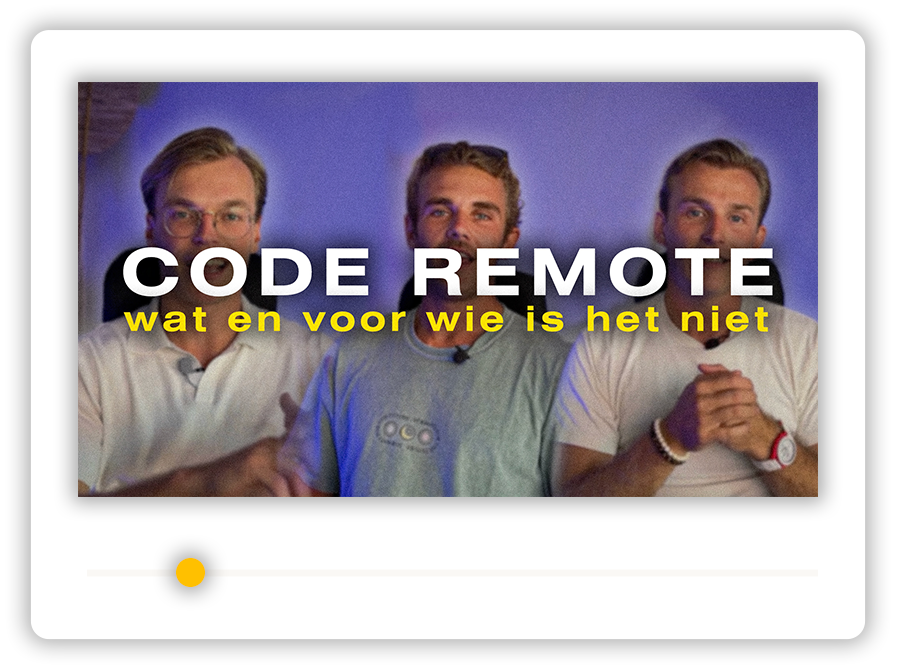
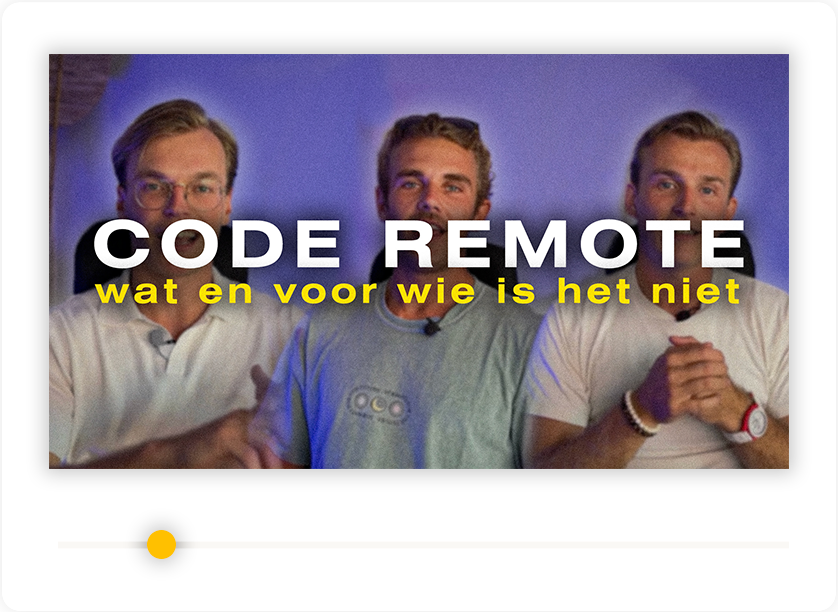
code-remote change

diff --git a/components/ThirdPage.vue b/components/ThirdPage.vue
@@ -108,7 +108,7 @@
             <img
               src="../assets/images/Screenshots for section 3/code-remote.png"
               alt="code-remote"
-              class="opacity-70 shadow-effect block"
+              class="shadow-effect block rounded-xl"
             />
             <div class="flex justify-end">
               <img
